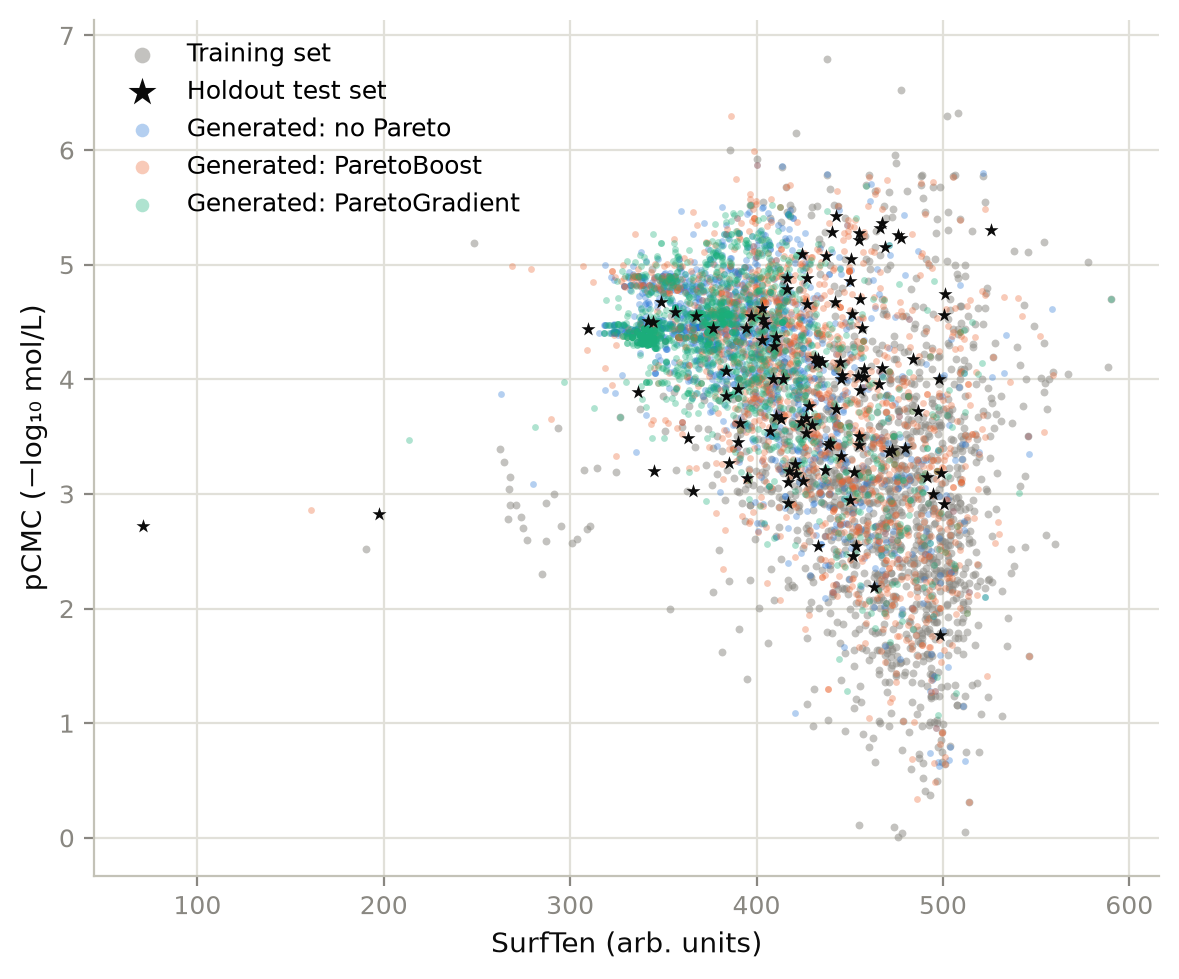
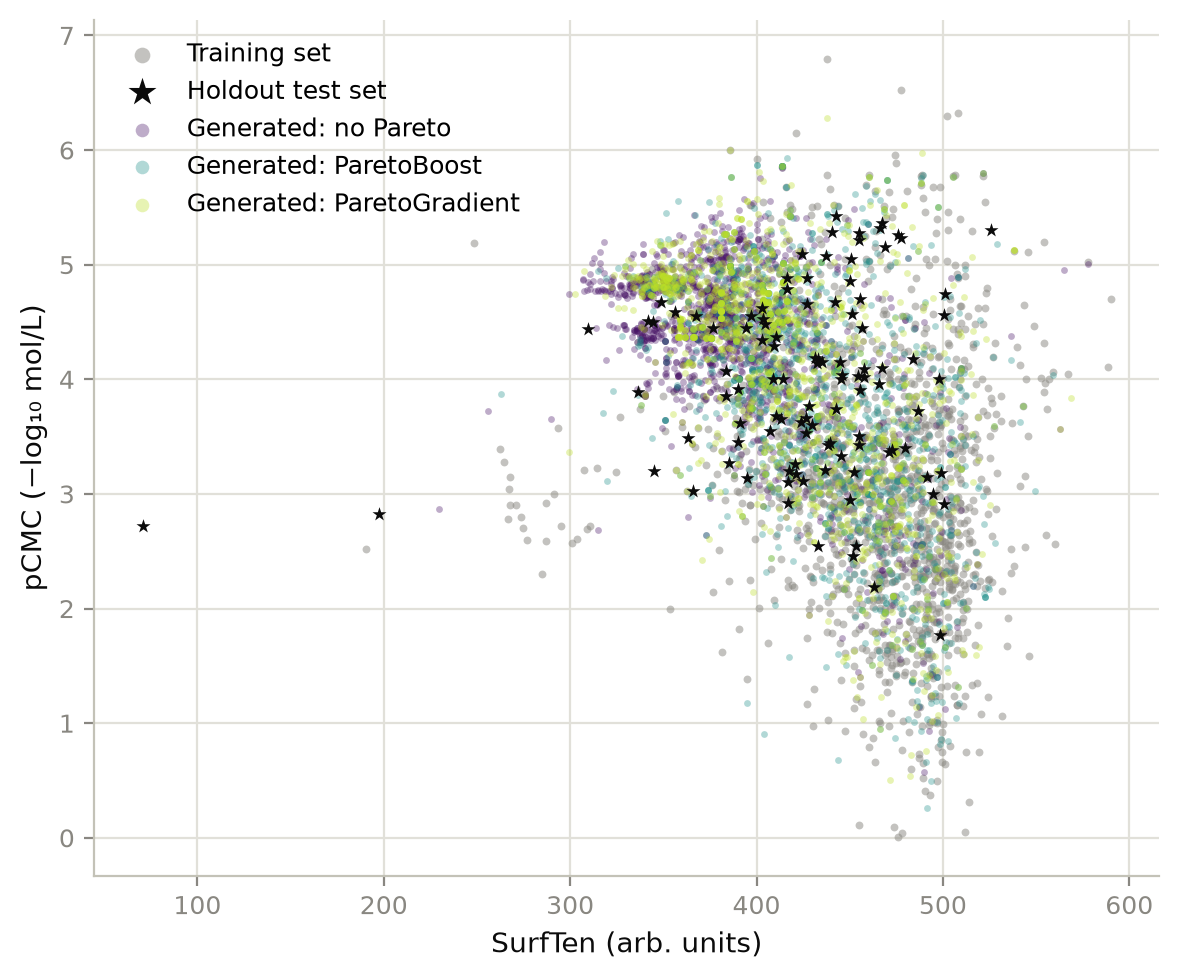
Viridis colors, molecule-count binning, and ParetoBoost variance finding
Figures: switched the Pareto-mode categorical palette to viridis; replaced
the raw-RL-step x-axis with cumulative molecules generated (comparable
across combinations that use very different batch/step splits under the
oracle-budget design); replaced per-step metric computation with fixed
100-molecule bins, which both smooths out the very noisy per-step estimates
small-batch combinations had and roughly halves regeneration time; and
excluded replicates without an eval.json (partial leftovers from a handful
that hit a rare numerical crash in the surrogate pipeline) from both
scripts, which had been skewing one combination's trajectory.

README: replaced the "Results" section (last describing the now-superseded
24- and 12-combination sweeps) with the current 6-combination sweep's
results so far (4 of 6 complete), including a new finding that ParetoBoost
has 2-3x higher run-to-run variance than ParetoGradient or no Pareto term at
all -- traced to its discontinuous, self-referential reward being sensitive
to which molecules happen to seed each replicate's initial Pareto front.

Changed region(s): [[0.4885, 0.1532, 0.855, 0.7967]]

diff --git a/REINVENT4Surfactants/workflow/make_production_stepwise_figures.py b/REINVENT4Surfactants/workflow/make_production_stepwise_figures.py
@@ -1,18 +1,28 @@
 #!/usr/bin/env python3
 """
-Publication-ready property-vs-RL-step figures for the production sweep,
-restricted to the ZINC-similarity-off, uncertainty-mode in {none, lm}
+Publication-ready property-vs-molecules-generated figures for the production
+sweep, restricted to the ZINC-similarity-off, uncertainty-mode in {none, lm}
 combinations (2026-07-31: SM and SM+LM dropped as not effective; ZINC-
 similarity excluded as a plotted dimension throughout). One standalone figure
 per metric (no plot/subplot titles -- panel identity carries entirely in the
-legend), with gridlines and shaded +/-1 std error bands across the 5
-replicates. Metrics: renormalized score, validity, novelty, internal
-diversity, and nearest-neighbor Tanimoto DISTANCE to the SurfPro top-100
-HOLDOUT set (not the training set).
+legend), with gridlines and shaded +/-1 std error bands across replicates.
+Metrics: renormalized score, validity, novelty, internal diversity, and
+nearest-neighbor Tanimoto DISTANCE to the SurfPro top-100 HOLDOUT set (not
+the training set).
+
+Metrics are computed over fixed-size bins of --bin-size (default 100)
+consecutively-generated molecules, not raw RL steps (2026-08-04): since step
+count is derived per combination from a fixed oracle budget divided by that
+combination's own HPO-chosen batch size, raw per-step batches range from 10
+to 500 molecules across combinations, making small-batch trajectories very
+noisy (each point a statistic over only ~10 molecules) and step counts
+incomparable across lines. Binning by molecule-generation order instead
+(splitting large steps, merging consecutive small ones) gives every
+combination the same, comparably-sized sample per plotted point.
 
 Usage:
     python workflow/make_production_stepwise_figures.py \
-        --combos-dir runs/production --out-dir figures
+        --combos-dir runs/production --out-dir figures --bin-size 100
 """
 import argparse
 import glob
@@ -34,10 +44,9 @@ UNC_LABELS = {"none": "Uncertainty: none", "lm": "Uncertainty: LM"}
 UNC_LINESTYLE = {"none": "-", "lm": "--"}
 PARETO_ORDER = ["none", "boost", "gradient"]
 PARETO_LABELS = {"none": "Pareto: none", "boost": "Pareto: ParetoBoost", "gradient": "Pareto: ParetoGradient"}
-# dataviz skill categorical palette, slots 1-3 (blue/orange/aqua) -- the only
-# 3-color subset validated all-pairs (CVD + normal-vision) for scatter/small-
-# multiples use; reused here for consistency across all production figures.
-COLORS = {"none": "#2a78d6", "boost": "#eb6834", "gradient": "#1baf7a"}
+# Viridis, sampled at 3 well-separated points (requested 2026-08-04, replacing
+# the earlier CVD-validated categorical triplet).
+COLORS = {"none": "#471365", "boost": "#21918c", "gradient": "#bddf26"}
 
 GRIDLINE = "#e1e0d9"
 AXIS_INK = "#c3c2b7"
@@ -53,7 +62,7 @@ METRICS = [
 ]
 
 
-def step_metrics(step_df: pd.DataFrame, trainval_set: set, holdout_fps: list) -> dict:
+def bin_metrics(step_df: pd.DataFrame, trainval_set: set, holdout_fps: list) -> dict:
     n_total = len(step_df)
     canons = step_df["SMILES"].apply(canon)
     n_valid = int(canons.notna().sum())
@@ -83,13 +92,28 @@ def step_metrics(step_df: pd.DataFrame, trainval_set: set, holdout_fps: list) ->
     }
 
 
-def load_combo_trajectory(combo_dir: str, trainval_set: set, holdout_fps: list) -> pd.DataFrame:
+def load_combo_trajectory(combo_dir: str, trainval_set: set, holdout_fps: list, bin_size: int) -> pd.DataFrame:
     rows = []
     for rep_csv in sorted(glob.glob(f"{combo_dir}/production/rep_*/trial_1.csv")):
+        # Only replicates run_production_combo.py itself accepted as
+        # successful (eval.json written) -- a rep_*/trial_1.csv can be a
+        # partial leftover from a replicate that failed/was abandoned
+        # mid-generation, which the orchestrator skips but doesn't delete
+        # (found 2026-08-04: one such partial file was skewing a trajectory).
+        if not os.path.exists(os.path.join(os.path.dirname(rep_csv), "eval.json")):
+            print(f"  skipping {rep_csv} (no eval.json -- not a completed replicate)", flush=True)
+            continue
         df = pd.read_csv(rep_csv, usecols=["SMILES", "Score", "pCMC (raw)", "SurfTen (raw)", "step"])
-        for step, step_df in df.groupby("step"):
-            m = step_metrics(step_df, trainval_set, holdout_fps)
-            m["step"] = step
+        # Bin by molecule-generation order (row position), not by raw RL
+        # step -- rows are already in generation order (sequential steps,
+        # sequential within-step order), so integer-dividing the row's
+        # position by a fixed bin_size transparently merges consecutive
+        # steps for small batch sizes and splits a step for large ones.
+        df = df.reset_index(drop=True)
+        bin_idx = df.index // bin_size
+        for b, bin_df in df.groupby(bin_idx):
+            m = bin_metrics(bin_df, trainval_set, holdout_fps)
+            m["bin"] = b
             rows.append(m)
     return pd.DataFrame(rows)
 
@@ -123,6 +147,8 @@ def main():
     ap.add_argument("--train-smiles-col", default="SMILES_canonical")
     ap.add_argument("--surfpro-holdout", default="data/surfpro_real_holdout_test_split.csv")
     ap.add_argument("--out-dir", default="figures")
+    ap.add_argument("--bin-size", type=int, default=100,
+                     help="molecules per plotted point, regardless of each combo's own batch size")
     args = ap.parse_args()
 
     os.makedirs(args.out_dir, exist_ok=True)
@@ -141,22 +167,25 @@ def main():
             name = f"zinc_off-unc_{unc}-pareto_{pareto}"
             combo_dir = f"{args.combos_dir}/{name}"
             print(f"processing {name}...", flush=True)
-            traj = load_combo_trajectory(combo_dir, trainval_set, holdout_fps)
-            trajectories[(unc, pareto)] = traj.groupby("step").agg(["mean", "std"])
+            traj = load_combo_trajectory(combo_dir, trainval_set, holdout_fps, args.bin_size)
+            trajectories[(unc, pareto)] = traj.groupby("bin").agg(["mean", "std"])
 
     for metric, ylabel, filename in METRICS:
         fig, ax = plt.subplots(figsize=(6, 4.5))
         for unc in UNC_ORDER:
             for pareto in PARETO_ORDER:
                 agg = trajectories[(unc, pareto)]
-                steps = agg.index.to_numpy()
+                # Bin index -> cumulative molecules generated (bins are a
+                # fixed args.bin_size molecules each, comparable across every
+                # combination regardless of its own HPO-chosen batch size).
+                molecules = (agg.index.to_numpy() + 1) * args.bin_size
                 mean = agg[(metric, "mean")].to_numpy()
                 std = agg[(metric, "std")].to_numpy()
-                ax.plot(steps, mean, color=COLORS[pareto], linestyle=UNC_LINESTYLE[unc], linewidth=2)
+                ax.plot(molecules, mean, color=COLORS[pareto], linestyle=UNC_LINESTYLE[unc], linewidth=2)
                 lo = np.clip(mean - std, 0, 1)
                 hi = np.clip(mean + std, 0, 1)
-                ax.fill_between(steps, lo, hi, color=COLORS[pareto], alpha=0.15, linewidth=0)
-        ax.set_xlabel("RL step")
+                ax.fill_between(molecules, lo, hi, color=COLORS[pareto], alpha=0.15, linewidth=0)
+        ax.set_xlabel("Molecules generated")
         ax.set_ylabel(ylabel)
         style_axes(ax)
         make_legend(ax)

diff --git a/REINVENT4Surfactants/workflow/make_pcmc_surften_scatter.py b/REINVENT4Surfactants/workflow/make_pcmc_surften_scatter.py
@@ -27,9 +27,9 @@ UNC_FILENAME = {"none": "scatter_pcmc_surften_unc_none.png", "lm": "scatter_pcmc
 PARETO_ORDER = ["none", "boost", "gradient"]
 PARETO_LABELS = {"none": "Generated: no Pareto", "boost": "Generated: ParetoBoost", "gradient": "Generated: ParetoGradient"}
 
-# dataviz skill categorical palette, slots 1-3 (blue/orange/aqua) -- the only
-# 3-color subset validated all-pairs (CVD + normal-vision) for scatter use.
-COLORS = {"none": "#2a78d6", "boost": "#eb6834", "gradient": "#1baf7a"}
+# Viridis, sampled at 3 well-separated points (requested 2026-08-04, replacing
+# the earlier CVD-validated categorical triplet).
+COLORS = {"none": "#471365", "boost": "#21918c", "gradient": "#bddf26"}
 HOLDOUT_COLOR = "#0b0b0b"
 TRAIN_COLOR = "#898781"
 
@@ -55,6 +55,10 @@ def invert_score(score, min_value, max_value, minimize):
 def load_combo_points(combo_dir, bounds, rng):
     dfs = []
     for rep_csv in sorted(glob.glob(f"{combo_dir}/production/rep_*/trial_1.csv")):
+        # Skip partial leftovers from replicates the orchestrator didn't
+        # accept (no eval.json) -- see make_production_stepwise_figures.py.
+        if not os.path.exists(os.path.join(os.path.dirname(rep_csv), "eval.json")):
+            continue
         df = pd.read_csv(rep_csv, usecols=["pCMC (raw)", "SurfTen (raw)", "Score"])
         dfs.append(df)
     if not dfs:

diff --git a/REINVENT4Surfactants/README.md b/REINVENT4Surfactants/README.md
@@ -1430,115 +1430,105 @@ and TL checkpoint (same HPO/replicate/steps budget as before). One job
 and 3/5 replicates; resubmitted with a longer walltime and the existing
 resume-from-cache logic picked up exactly where it left off. Results below.
 
-### Results (re-run with the corrected holdout)
+### Results (current sweep, 2026-08-04 -- 4 of 6 combinations complete)
 
-**2026-07-31: SM and SM+LM dropped.** Across the marginal-effects analysis
-below, SM and SM+LM never beat plain `none`/LM on renormalized score and
-didn't add a clearly distinct qualitative pattern beyond what LM already
-shows -- so subsequent figures keep only the `none` and `LM` uncertainty
-modes (and remain ZINC-similarity-off only, per the earlier decision). The
-aggregate numbers for SM/SM+LM from the full 24-combination sweep are kept
-below for the record, but are no longer carried forward into new figures.
+The design is now 2 uncertainty modes (`none`, LM) x 3 Pareto modes
+(`none`/`ParetoBoost`/`ParetoGradient`), ZINC-similarity-off only, 20
+replicates each, oracle-budget/batch-size-decoupled HPO (see Findings above)
+-- superseding all earlier sweeps (24-combination and the first 12/6-combination
+re-run), whose numbers are no longer reported here. `zinc_off-unc_lm-pareto_boost`
+and `zinc_off-unc_lm-pareto_gradient` are still running; this section covers
+the 4 completed combinations and will be filled in fully once the last 2 land.
+
+| unc_mode | pareto_mode | renorm. score | internal diversity | validity | novelty | ZINC top-100 | SurfPro top-100 |
+|---|---|---|---|---|---|---|---|
+| none | none | 0.538 | 0.650 | 0.988 | 0.970 | 0.115 | 0.003 |
+| none | boost | 0.424 | 0.708 | 0.938 | 0.994 | 0.018 | 0.001 |
+| none | gradient | 0.536 | 0.661 | 0.994 | 0.962 | 0.134 | 0.000 |
+| LM | none | 0.547 | 0.592 | 0.992 | 0.973 | 0.116 | 0.001 |
 
 `workflow/make_production_stepwise_figures.py` plots renormalized score,
 validity, novelty, internal diversity, and nearest-neighbor Tanimoto
-*distance to the SurfPro top-100 holdout* (not the training set) as a
-function of RL step. Each is its own publication-ready figure (no plot/
-subplot titles; gridlines; shaded +/-1 std bands across the 5 replicates;
-axis labels with units where applicable): color encodes Pareto mode, line
-style encodes uncertainty mode (solid = none, dashed = LM).
+*distance to the SurfPro holdout* (not the training set) against cumulative
+**molecules generated** (2026-08-04: not raw RL step -- step count is derived
+per combination from a fixed 10,000-molecule oracle budget divided by that
+combination's own HPO-chosen batch size, so raw step counts range from 20 to
+1000 across combinations and aren't comparable). Each metric is computed over
+fixed 100-molecule bins regardless of the combination's own batch size, which
+also smooths out the very noisy per-step estimates small-batch combinations
+would otherwise have. Each metric is its own publication-ready figure (no
+plot/subplot titles; gridlines; shaded +/-1 std bands across replicates; axis
+labels with units where applicable): color encodes Pareto mode (viridis),
+line style encodes uncertainty mode (solid = none, dashed = LM).
 
-![Renormalized score vs. RL step](figures/stepwise_renormalized_score.png)
+![Renormalized score vs. molecules generated](figures/stepwise_renormalized_score.png)
 
-![Validity vs. RL step](figures/stepwise_validity.png)
+![Validity vs. molecules generated](figures/stepwise_validity.png)
 
-![Novelty vs. RL step](figures/stepwise_novelty.png)
+![Novelty vs. molecules generated](figures/stepwise_novelty.png)
 
-![Internal diversity vs. RL step](figures/stepwise_internal_diversity.png)
+![Internal diversity vs. molecules generated](figures/stepwise_internal_diversity.png)
 
-![Nearest-neighbor Tanimoto distance to the holdout set vs. RL step](figures/stepwise_tanimoto_dist_holdout.png)
+![Nearest-neighbor Tanimoto distance to the holdout set vs. molecules generated](figures/stepwise_tanimoto_dist_holdout.png)
 
 **The score/diversity trade-off is a genuine training-time collapse, not
 just an endpoint difference.** Every panel shows renormalized score rising
-and internal diversity + novelty falling as RL progresses -- the standard
-exploration/exploitation signature -- but the *rate* of that collapse
-differs sharply by uncertainty mode. Loss Modulation (LM) shows by far the
-steepest diversity collapse of any mode, falling from ~0.77 to as low as
-0.2-0.4 by step 20 depending on the Pareto arm; Score Modulation (SM) barely
-loses diversity at all over the full 20 steps (staying in 0.71-0.77
-throughout). This directly explains the aggregate finding that LM has the
-lowest marginal diversity and SM the highest: LM's low endpoint diversity is
-the result of an active, ongoing collapse during training, not a static
-property of its optimum.
+and internal diversity falling as RL progresses -- the standard
+exploration/exploitation signature. `ParetoBoost` is the clear outlier: its
+renormalized-score trajectory is visibly noisier than the other two Pareto
+modes throughout training and never converges as high (~0.44-0.52 vs.
+~0.55-0.60), while its diversity declines the *slowest* of the three (ending
+around 0.55-0.65 vs. ~0.35-0.5) -- worse mean score, but less exploration
+collapse, not a strict improvement or regression on either axis alone.
 
-**Pareto-mode differentiation grows over training rather than being present
-from the start.** In the SM panel, ParetoGradient's renormalized-score
-advantage over ParetoBoost/none is negligible for the first ~5 steps and
-only widens into a large gap (0.47 vs. ~0.40) by step 20 -- a pattern the
-single-endpoint bar charts couldn't show. Novelty and holdout-distance track
-the same shape as diversity (rising/falling together), consistent with all
-three being facets of the same exploration-exhaustion process rather than
-independent effects.
+**`ParetoBoost` has far higher run-to-run variance than either alternative**
+(prompted by a direct question about the width of its error band): comparing
+the 3 Pareto modes at uncertainty=`none` (n=19-20 replicates each, so this
+isn't a sample-size artifact),
 
-**SurfPro top-100 rediscovery is now at floor everywhere (0.0-0.5%),** as it
-should be for a genuinely disjoint holdout: with only 20 RL steps and 5
-replicates per combination, exactly regenerating one of 105 held-out
-molecules that share no scaffold with anything seen during transfer learning
-is a rare event by design, not a bug. This is itself confirmation of how much
-the previous 9-36% figures were inflated by the homolog leak, and means
-SurfPro rediscovery isn't a useful discriminator between combinations at this
-compute budget -- a real generalization test at this holdout's difficulty
-would need substantially more RL steps and/or larger sampling budgets, which
-is future work rather than something to chase within this sweep.
+| pareto_mode | renorm. score std | internal diversity std |
+|---|---|---|
+| none | 0.019 | 0.046 |
+| **boost** | **0.063** (3.3x) | **0.105** (2.3x) |
+| gradient | 0.017 | 0.048 |
 
-**ZINC top-100 rediscovery is the informative rediscovery metric this time**
-(12-23% across combinations, unaffected by the SurfPro-side leak since it's
-built independently from the ZINC catalog). Marginally, ZINC-similarity
-being *on* only helps this metric when no Pareto term is active (0.207 vs.
-0.165-0.171 for boost/gradient); with ZINC-similarity off, all three Pareto
-modes give similar rediscovery (~0.164-0.175). So "no Pareto is better for
-rediscovery" -- the headline finding from the first (leaky) sweep -- only
-replicates here conditional on ZINC-similarity being on.
+`ParetoBoost`'s reward is discontinuous -- a molecule either gets the full
+boost or none of it, based on whether it dominates the *empirical* Pareto
+front built from that same run's own earlier generations (Methods). That
+front is seeded by whichever molecules happen to be sampled first, which
+differs by chance across replicates from the same starting checkpoint.
+Because the reward is all-or-nothing rather than graded, small early
+differences in which molecules establish the initial front can compound into
+very different policies by the end of training -- a sensitivity-to-initial-
+conditions effect. `ParetoGradient`'s continuous distance-to-front reward
+(near-misses get partial credit) doesn't show this, nor does dropping the
+Pareto term entirely; both land at ordinary run-to-run RL noise levels. One
+`ParetoBoost` replicate's low validity (0.75 vs. 0.94-0.98 for the rest) is
+consistent with the same elevated-variance story extending beyond just score
+and diversity.
 
-**Score Modulation (SM) now raises internal diversity and ZINC rediscovery
-the most,** rather than being roughly neutral as in the first sweep: SM has
-the highest marginal internal diversity (0.746) and ZINC top-100 rate
-(0.202) of the four uncertainty modes, at the cost of the lowest
-renormalized score (0.416) and lowest novelty (0.894). Loss Modulation (LM)
-remains the mirror image -- highest renormalized score (0.486, tied with
-`none`) but lowest diversity (0.662) and lowest ZINC rediscovery (0.157) --
-consistent with the same score/diversity trade-off documented before: LM
-sharpens the raw optimization target at the cost of exploration.
+**SurfPro top-100 rediscovery is at floor everywhere (0.0-0.3%),** as
+expected for a genuinely scaffold-disjoint holdout (see the leakage Findings
+above): with a 10,000-molecule budget, exactly regenerating one of 105
+held-out molecules sharing no scaffold with anything seen during transfer
+learning is a rare event by design, not a bug.
 
-**ZINC-similarity's marginal effect stays small and roughly a wash**, same
-conclusion as the first sweep: renormalized score (0.457 off vs. 0.451 on),
-novelty (0.928 vs. 0.924), and diversity (0.708 vs. 0.701) are all within
-noise of each other. It does raise nearest-neighbor training-set similarity
-slightly (0.766 to 0.781), consistent with the plausibility term nudging
-generation toward more familiar structural motifs.
-
-**Top combinations by renormalized score** are dominated by Loss Modulation
-without SM: ZINC off/LM/ParetoGradient (0.536), ZINC off/LM/none (0.533),
-ZINC off/none/none (0.518). **Top combinations by ZINC top-100 rediscovery**
-are a different, SM-favoring set: ZINC off/SM/ParetoGradient (0.232), ZINC
-off/SM+LM/none (0.224), ZINC on/none/ParetoGradient (0.218) -- reinforcing
-that no single combination dominates both the raw-score and the
-rediscovery/diversity axes; which one to prefer depends on whether the goal
-is pushing the surrogate objective as hard as possible or generating a
-broader, more literature-similar set of candidates.
+**ZINC top-100 rediscovery is the informative rediscovery metric here**
+(1.8-13.4% across the 4 completed combinations). `ParetoBoost` is again the
+outlier, at roughly 6x lower rediscovery (0.018) than `none`/`ParetoGradient`
+(0.115/0.134) -- consistent with its policy spending more of its budget
+chasing its own self-referential front rather than the true best molecules.
 
 **Property-space overlap remains strong despite near-zero exact rediscovery.**
 `workflow/make_pcmc_surften_scatter.py` plots SurfTen (x-axis) against pCMC
 (y-axis, predicted values in the surrogate models' native units), one
-publication-ready figure per uncertainty mode (`none`/LM; ZINC-similarity-off
-only), each overlaying three populations: the SurfPro-MD training set (grey),
-the SurfPro top-100 holdout test set (black stars), and the generated
-molecules from all three Pareto arms (colored). The generated clouds
-substantially overlap the true top-100's property region in both modes, even
-though essentially none of the exact molecules are recovered -- the model is
-learning to produce property-good molecules broadly, not memorizing/copying
-specific structures, which is the intended behavior once homolog leakage is
-removed.
+publication-ready figure per uncertainty mode, each overlaying three
+populations: the SurfPro-MD training set (grey), the SurfPro holdout test set
+(black stars), and the generated molecules from all three Pareto arms
+(viridis). The generated clouds substantially overlap the true holdout's
+property region in both modes, even though essentially none of the exact
+molecules are recovered -- the model is learning to produce property-good
+molecules broadly, not memorizing/copying specific structures.
 
 ![SurfTen vs pCMC, uncertainty mode: none](figures/scatter_pcmc_surften_unc_none.png)
 
@@ -1546,7 +1536,11 @@ removed.
 
 Full per-combination numbers (including per-replicate values and best HPO
 hyperparameters) are in `runs/production/comparison_table.csv` and the
-individual `runs/production/<combo>/final_result.json` files.
+individual `runs/production/<combo>/final_result.json` files. Replicates
+without an `eval.json` (a handful failed with a rare `infinity or value too
+large` error in the surrogate/uncertainty pipeline for a specific generated
+molecule, <1% of replicates run so far) are excluded from both the table and
+the figures above.
 
 ### Findings (2026-08-03): HPO's batch-size preference was an objective artifact; fixed, plus more replicates and a Pareto-component efficiency fix
 
